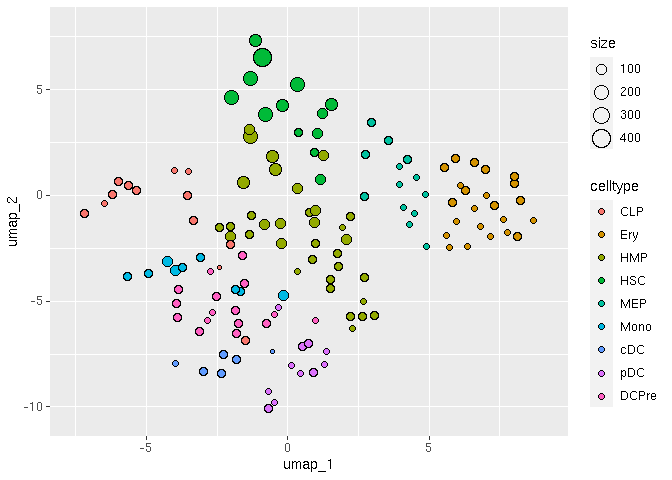
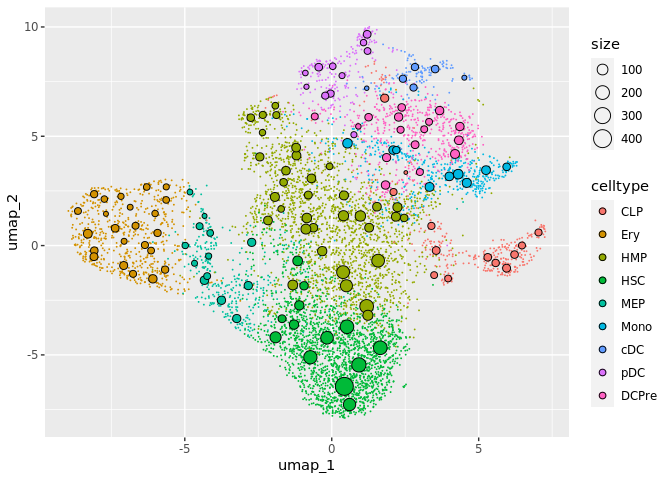
fixed normalization in mc_INV function

diff --git a/vignettes/MetacellAnalysisToolkit_vignette.md b/vignettes/MetacellAnalysisToolkit_vignette.md
@@ -1,200 +1,184 @@
----
-title: "MetacellAnalysisToolkit package"
-author: "Aurélie Gabriel, Léonard Hérault, Mariia Bilous and David Gfeller"
-date: "2023-12-20"
-output:
-  md_document:
-    toc: true # table of content true
-vignette: >
-  %\VignetteIndexEntry{MetacellAnalysisToolkit package}
-  %\VignetteEngine{knitr::rmarkdown}
-  %\VignetteEncoding{UTF-8}
----
-
-
+-   [Load data](#load-data)
+-   [Compute quantitative metrics](#compute-quantitative-metrics)
+    -   [Purity](#purity)
+    -   [Compactness](#compactness)
+    -   [Separation](#separation)
+    -   [INV](#inv)
+-   [Representativeness of metacells](#representativeness-of-metacells)
 
 ## Load data
 
-
-```r
-library(MetacellAnalysisToolkit)
-mc_data <- MetacellAnalysisToolkit::CD34_mc
-sc_data <- MetacellAnalysisToolkit::CD34_sc
-```
+    library(MetacellAnalysisToolkit)
+    mc_data <- MetacellAnalysisToolkit::CD34_mc
+    sc_data <- MetacellAnalysisToolkit::CD34_sc
 
 ## Compute quantitative metrics
 
 ### Purity
-After each metacell has been annotated to the most abundant cell category (*e.g.* cell type) composing the metacell, we can compute metacells purity. 
-If the annotation considered is the cell type, the **purity** of a metacell is the proportion of the most abundant
-cell type within the metacell.
 
-```r
-mc_data$purity <- mc_purity(membership = mc_data@misc$cell_membership$membership, annotation = sc_data$celltype)
-qc_boxplot(mc.obj = mc_data, qc.metrics = "purity")
-```
+After each metacell has been annotated to the most abundant cell
+category (*e.g.* cell type) composing the metacell, we can compute
+metacells purity. If the annotation considered is the cell type, the
+**purity** of a metacell is the proportion of the most abundant cell
+type within the metacell.
 
-![plot of chunk compute_purity](./MetacellAnalysisToolkit_vignette_files/compute_purity-1.png)
+    mc_data$purity <- mc_purity(membership = mc_data@misc$cell_membership$membership, annotation = sc_data$celltype)
 
-```r
-qc_boxplot(mc.obj = mc_data, qc.metrics = "purity", split.by = "celltype")
-```
+    ## Loading required package: SeuratObject
 
-![plot of chunk compute_purity](./MetacellAnalysisToolkit_vignette_files/compute_purity-2.png)
+    ## Loading required package: sp
+
+    ## The legacy packages maptools, rgdal, and rgeos, underpinning this package
+    ## will retire shortly. Please refer to R-spatial evolution reports on
+    ## https://r-spatial.org/r/2023/05/15/evolution4.html for details.
+    ## This package is now running under evolution status 0
+
+    ## 
+    ## Attaching package: 'SeuratObject'
+
+    ## The following objects are masked from 'package:base':
+    ## 
+    ##     intersect, t
+
+    qc_boxplot(mc.obj = mc_data, qc.metrics = "purity")
+
+![](./MetacellAnalysisToolkit_vignette_files/compute_purity-1.png)
+
+    qc_boxplot(mc.obj = mc_data, qc.metrics = "purity", split.by = "celltype")
+
+![](./MetacellAnalysisToolkit_vignette_files/compute_purity-2.png)
 
 ### Compactness
-The **compactness** of a metacell is the variance of the components within the metacell.
-The lower the compactness value the better.
 
-This metric, as well as the separation metric, are computed based on a low embedding of the single-cell data, e.g. PCA embedding 
-which we generate in the next chunk.
+The **compactness** of a metacell is the variance of the components
+within the metacell. The lower the compactness value the better.
 
+This metric, as well as the separation metric, are computed based on a
+low embedding of the single-cell data, e.g. PCA embedding which we
+generate in the next chunk.
 
-```r
-library(Seurat)
-sc_data <- NormalizeData(sc_data, normalization.method = "LogNormalize")
-sc_data <- FindVariableFeatures(sc_data, nfeatures = 2500)
-sc_data <- ScaleData(sc_data)
-```
+    library(Seurat)
+    sc_data <- NormalizeData(sc_data, normalization.method = "LogNormalize")
+    sc_data <- FindVariableFeatures(sc_data, nfeatures = 2500)
+    sc_data <- ScaleData(sc_data)
 
-```
-## Centering and scaling data matrix
-```
+    ## Centering and scaling data matrix
 
-```r
-sc_data <- RunPCA(sc_data, npcs = 50, verbose = F)
-sc_data <- RunUMAP(sc_data, reduction = "pca", dims = c(1:50), n.neighbors = 15, verbose = F, min.dist = 0.5)
-UMAPPlot(sc_data, group.by = "celltype", reduction = "umap")
-```
+    sc_data <- RunPCA(sc_data, npcs = 50, verbose = F)
+    sc_data <- RunUMAP(sc_data, reduction = "pca", dims = c(1:50), n.neighbors = 15, verbose = F, min.dist = 0.5)
 
-![plot of chunk sc-embessing](./MetacellAnalysisToolkit_vignette_files/sc-embessing-1.png)
+    ## Warning: The default method for RunUMAP has changed from calling Python UMAP via reticulate to the R-native UWOT using the cosine metric
+    ## To use Python UMAP via reticulate, set umap.method to 'umap-learn' and metric to 'correlation'
+    ## This message will be shown once per session
+
+    UMAPPlot(sc_data, group.by = "celltype", reduction = "umap")
+
+![](./MetacellAnalysisToolkit_vignette_files/sc-embedding-1.png)
 
 We compute these metrics in a diffusion map obtained from the pca.
 
-```r
-membership_df <- mc_data@misc$cell_membership
-diffusion_comp <- get_diffusion_comp(sc.obj = sc_data, dims = 1:30)
-```
+    membership_df <- mc_data@misc$cell_membership
+    diffusion_comp <- get_diffusion_comp(sc.obj = sc_data, dims = 1:30)
 
-```
-## Computing diffusion maps ...
-```
+    ## Computing diffusion maps ...
 
-```
-## Determing nearest neighbor graph...
-```
+    mc_data$compactness <- mc_compactness(cell.membership = membership_df,
+                                          sc.obj = sc_data,
+                                          sc.reduction = diffusion_comp)
+    qc_boxplot(mc.obj = mc_data, qc.metrics = "compactness")
 
-```r
-mc_data$compactness <- mc_compactness(cell.membership = membership_df,
-                                      sc.obj = sc_data,
-                                      sc.reduction = diffusion_comp)
-qc_boxplot(mc.obj = mc_data, qc.metrics = "compactness")
-```
+![](./MetacellAnalysisToolkit_vignette_files/compute_compactness-1.png)
 
-![plot of chunk compute_compactness](./MetacellAnalysisToolkit_vignette_files/compute_compactness-1.png)
+    qc_boxplot(mc.obj = mc_data, qc.metrics = "compactness", split.by = "celltype")
 
-```r
-qc_boxplot(mc.obj = mc_data, qc.metrics = "compactness", split.by = "celltype")
-```
-
-![plot of chunk compute_compactness](./MetacellAnalysisToolkit_vignette_files/compute_compactness-2.png)
+![](./MetacellAnalysisToolkit_vignette_files/compute_compactness-2.png)
 
 ### Separation
-The **separation** of a metacell is the distance to the closest metacell [@SEACells].
-The higher the separation value the better.
 
+The **separation** of a metacell is the distance to the closest metacell
+\[@SEACells\]. The higher the separation value the better.
 
-```r
-mc_data$separation <- mc_separation(cell.membership = membership_df, 
-                                    sc.obj = sc_data, 
-                                    sc.reduction = diffusion_comp)
-qc_boxplot(mc.obj = mc_data, qc.metrics = "separation")
-```
+    mc_data$separation <- mc_separation(cell.membership = membership_df, 
+                                        sc.obj = sc_data, 
+                                        sc.reduction = diffusion_comp)
+    qc_boxplot(mc.obj = mc_data, qc.metrics = "separation")
 
-![plot of chunk compute_separation](./MetacellAnalysisToolkit_vignette_files/compute_separation-1.png)
+![](./MetacellAnalysisToolkit_vignette_files/compute_separation-1.png)
 
-```r
-qc_boxplot(mc.obj = mc_data, qc.metrics = "separation", split.by = "celltype")
-```
+    qc_boxplot(mc.obj = mc_data, qc.metrics = "separation", split.by = "celltype")
 
-![plot of chunk compute_separation](./MetacellAnalysisToolkit_vignette_files/compute_separation-2.png)
-
+![](./MetacellAnalysisToolkit_vignette_files/compute_separation-2.png)
 
 ### INV
-The **inner normalized variance (INV)** of a metacell is the mean-normalized variance of gene expression within the metacell.
-The lower the INV value the better.
-Note that it is the only metric that is latent-space independent.
 
+The **inner normalized variance (INV)** of a metacell is the
+mean-normalized variance of gene expression within the metacell. The
+lower the INV value the better. Note that it is the only metric that is
+latent-space independent.
 
-```r
-mc_data$INV <- mc_INV(cell.membership = membership_df, sc.obj = sc_data, group.label = "membership")
-```
+    mc_data$INV <- mc_INV(cell.membership = membership_df, sc.obj = sc_data, group.label = "membership")
 
-```
-## Computing INV ...
-```
+    ## Computing INV ...
 
-```r
-qc_boxplot(mc.obj = mc_data, qc.metrics = "INV")
-```
+    ## [1] "after get matrix"
+    ## [1] "after do call"
 
-![plot of chunk compute_INV](./MetacellAnalysisToolkit_vignette_files/compute_INV-1.png)
+    qc_boxplot(mc.obj = mc_data, qc.metrics = "INV")
 
-```r
-qc_boxplot(mc.obj = mc_data, qc.metrics = "INV", split.by = "celltype")
-```
+![](./MetacellAnalysisToolkit_vignette_files/compute_INV-1.png)
 
-![plot of chunk compute_INV](./MetacellAnalysisToolkit_vignette_files/compute_INV-2.png)
+    qc_boxplot(mc.obj = mc_data, qc.metrics = "INV", split.by = "celltype")
+
+![](./MetacellAnalysisToolkit_vignette_files/compute_INV-2.png)
 
 ## Representativeness of metacells
-To visualize the metacells, we can project the metacells on the single-cell UMAP representation using the `mc_projection()` function (adapted from the `plot.plot_2D()` from the SEACells package).
-A good metacell partition should reproduce the overall structure of the single-cell data by uniformly representing the latent space.
-To use this function we need the data at the single-cell level (or at least an low-dimensional embedding of the data) and the single-cell membership to each the metacell.
 
+To visualize the metacells, we can project the metacells on the
+single-cell UMAP representation using the `mc_projection()` function
+(adapted from the `plot.plot_2D()` from the SEACells package). A good
+metacell partition should reproduce the overall structure of the
+single-cell data by uniformly representing the latent space. To use this
+function we need the data at the single-cell level (or at least an
+low-dimensional embedding of the data) and the single-cell membership to
+each the metacell.
 
-```r
-mc_projection(
-  sc.obj = sc_data,
-  mc.obj = mc_data,
-  cell.membership = membership_df,
-  sc.reduction = "umap",
-  sc.label = "celltype", # single cells will be colored according the sc.label
-  metacell.label = "celltype" # metacells cell will be colored according the metacell.label
-  )
-```
+    mc_projection(
+      sc.obj = sc_data,
+      mc.obj = mc_data,
+      cell.membership = membership_df,
+      sc.reduction = "umap",
+      sc.label = "celltype", # single cells will be colored according the sc.label
+      metacell.label = "celltype" # metacells cell will be colored according the metacell.label
+      )
 
-![plot of chunk visualize_metacells](./MetacellAnalysisToolkit_vignette_files/visualize_metacells-1.png)
+![](./MetacellAnalysisToolkit_vignette_files/visualize_metacells-1.png)
 
-```r
-# with custom colors:
-colors <- c("HMP" = "#BC80BD", "DCPre" = "#66A61E", "HSC" = "#A6761D",
-            "Ery" = "#E41A1C", "MEP" = "#B3B3B3", "cDC" = "#A6D854", "CLP" = "#1F78B4", "Mono" = "#E6AB02", "pDC" = "#B2DF8A" )
-mc_projection(sc.obj = sc_data,
-  mc.obj = mc_data,
-  cell.membership = membership_df,
-  sc.reduction = "umap",
-  sc.label = "celltype", # single cells will be colored according the sc.label
-  metacell.label = "celltype", # metacells cell will be colored according the metacell.label
-  sc.color = colors,
-  mc.color = colors)
-```
+    # with custom colors:
+    colors <- c("HMP" = "#BC80BD", "DCPre" = "#66A61E", "HSC" = "#A6761D",
+                "Ery" = "#E41A1C", "MEP" = "#B3B3B3", "cDC" = "#A6D854", "CLP" = "#1F78B4", "Mono" = "#E6AB02", "pDC" = "#B2DF8A" )
+    mc_projection(sc.obj = sc_data,
+      mc.obj = mc_data,
+      cell.membership = membership_df,
+      sc.reduction = "umap",
+      sc.label = "celltype", # single cells will be colored according the sc.label
+      metacell.label = "celltype", # metacells cell will be colored according the metacell.label
+      sc.color = colors,
+      mc.color = colors)
 
-![plot of chunk visualize_metacells](./MetacellAnalysisToolkit_vignette_files/visualize_metacells-2.png)
+![](./MetacellAnalysisToolkit_vignette_files/visualize_metacells-2.png)
 
-By default the size of the metacells dots is proportionnal to the size of the metacells.
-Metacells can also be colored by a continuous variable such as one of the QC metrics computed in the previous chunks:
+By default the size of the metacells dots is proportionnal to the size
+of the metacells. Metacells can also be colored by a continuous variable
+such as one of the QC metrics computed in the previous chunks:
 
+    mc_projection(
+      sc.obj = sc_data,
+      mc.obj = mc_data,
+      cell.membership = membership_df,
+      sc.reduction = "umap",
+      sc.label = "celltype", # single cells will be colored according the sc.label
+      continuous_metric = TRUE,
+      metric = "compactness"
+      )
 
-```r
-mc_projection(
-  sc.obj = sc_data,
-  mc.obj = mc_data,
-  cell.membership = membership_df,
-  sc.reduction = "umap",
-  sc.label = "celltype", # single cells will be colored according the sc.label
-  continuous_metric = TRUE,
-  metric = "compactness"
-  )
-```
-
-![plot of chunk visualize_metacells_continuous](./MetacellAnalysisToolkit_vignette_files/visualize_metacells_continuous-1.png)
+![](./MetacellAnalysisToolkit_vignette_files/visualize_metacells_continuous-1.png)
